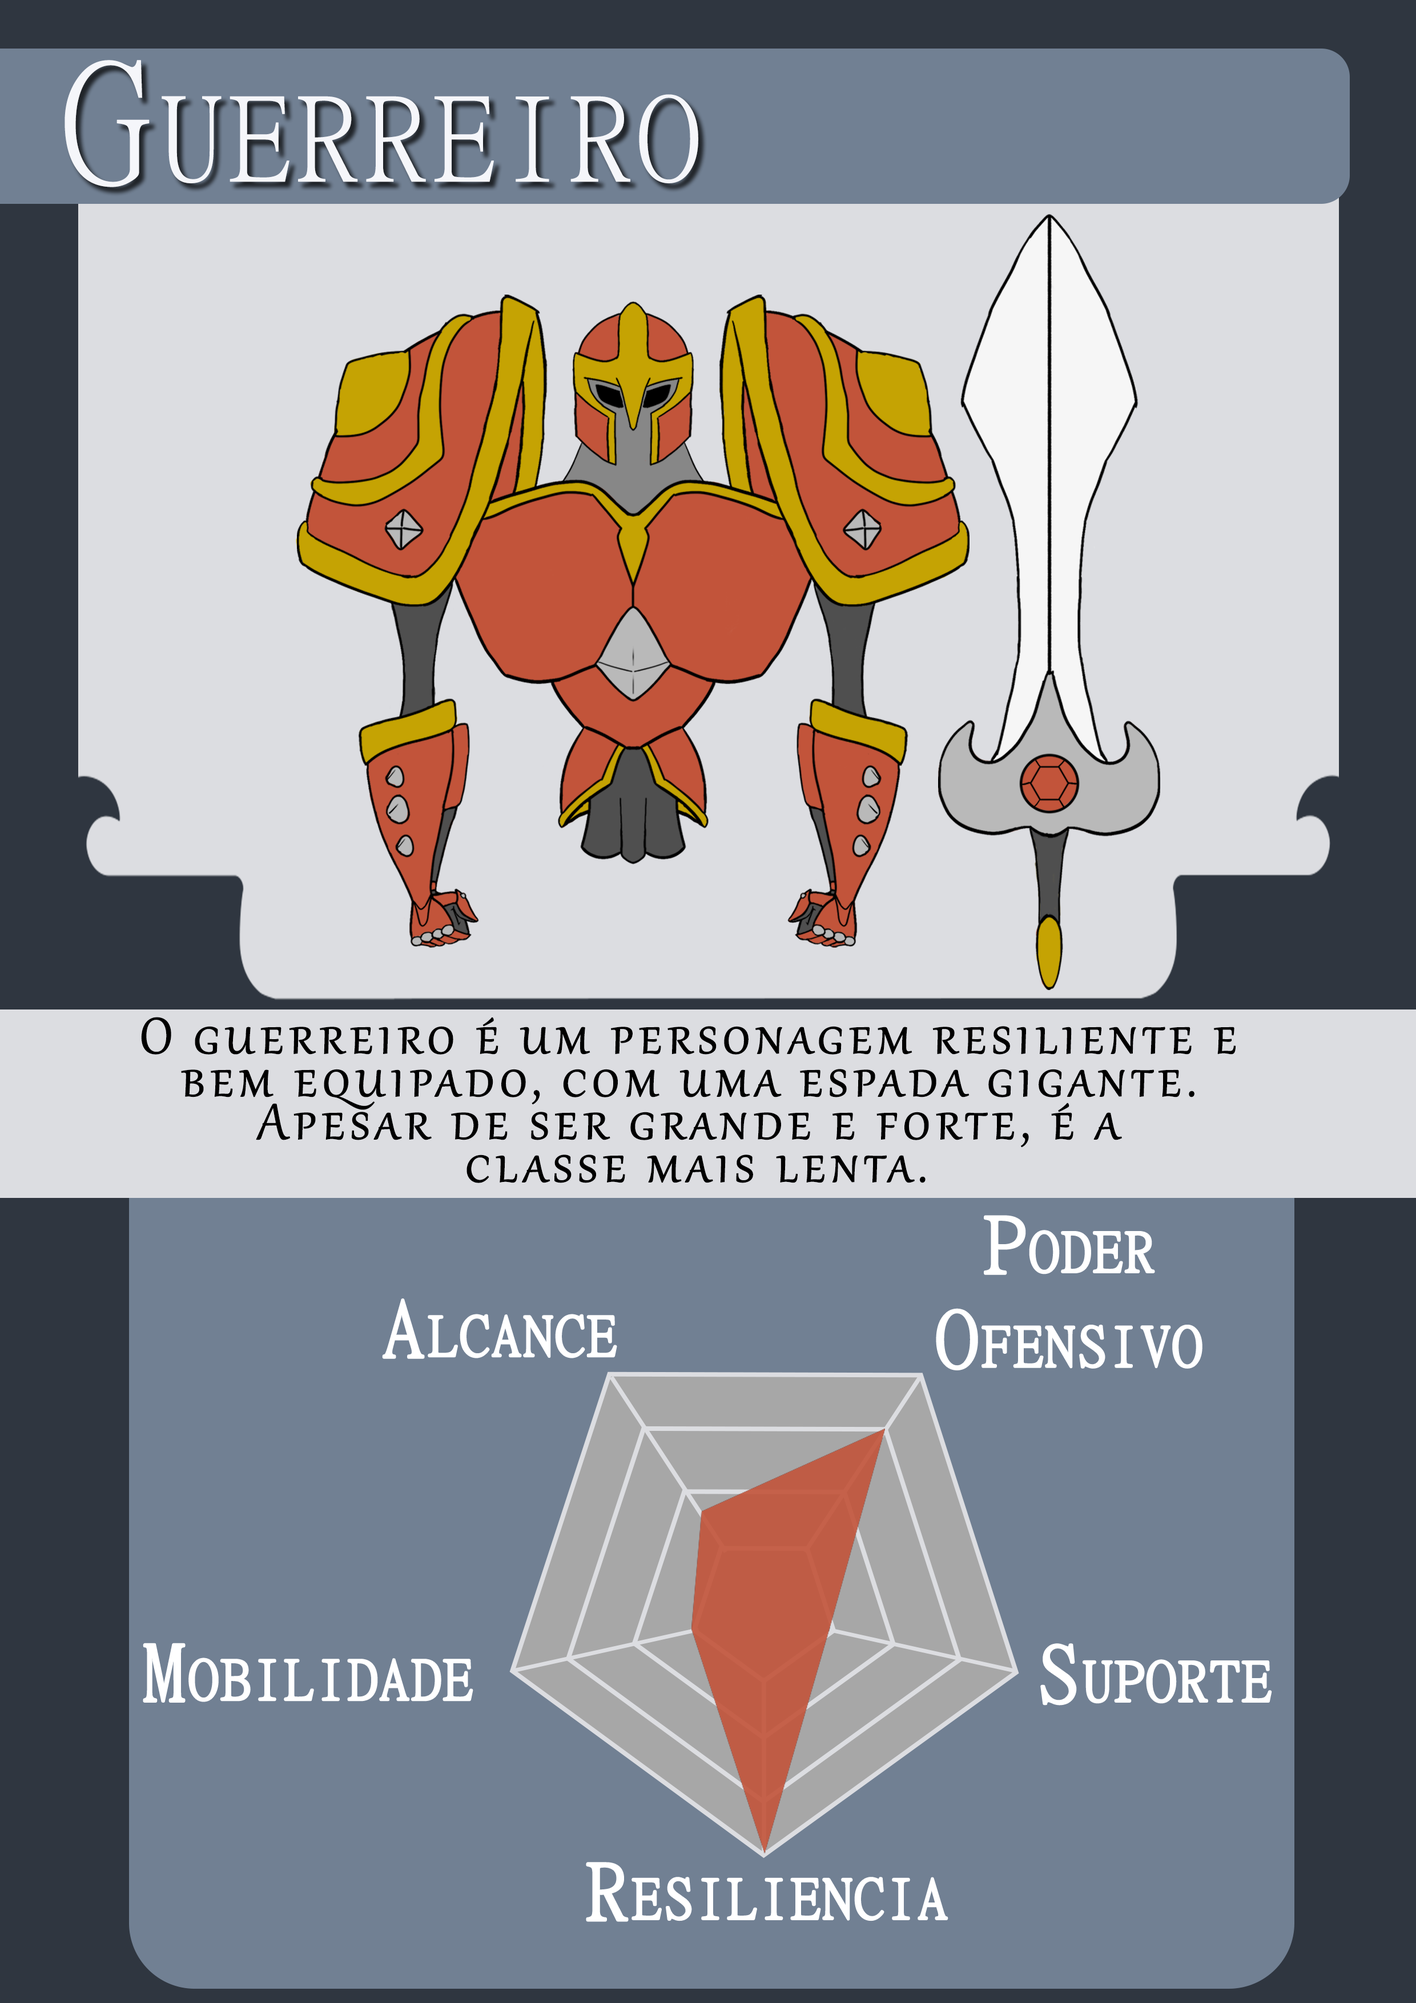
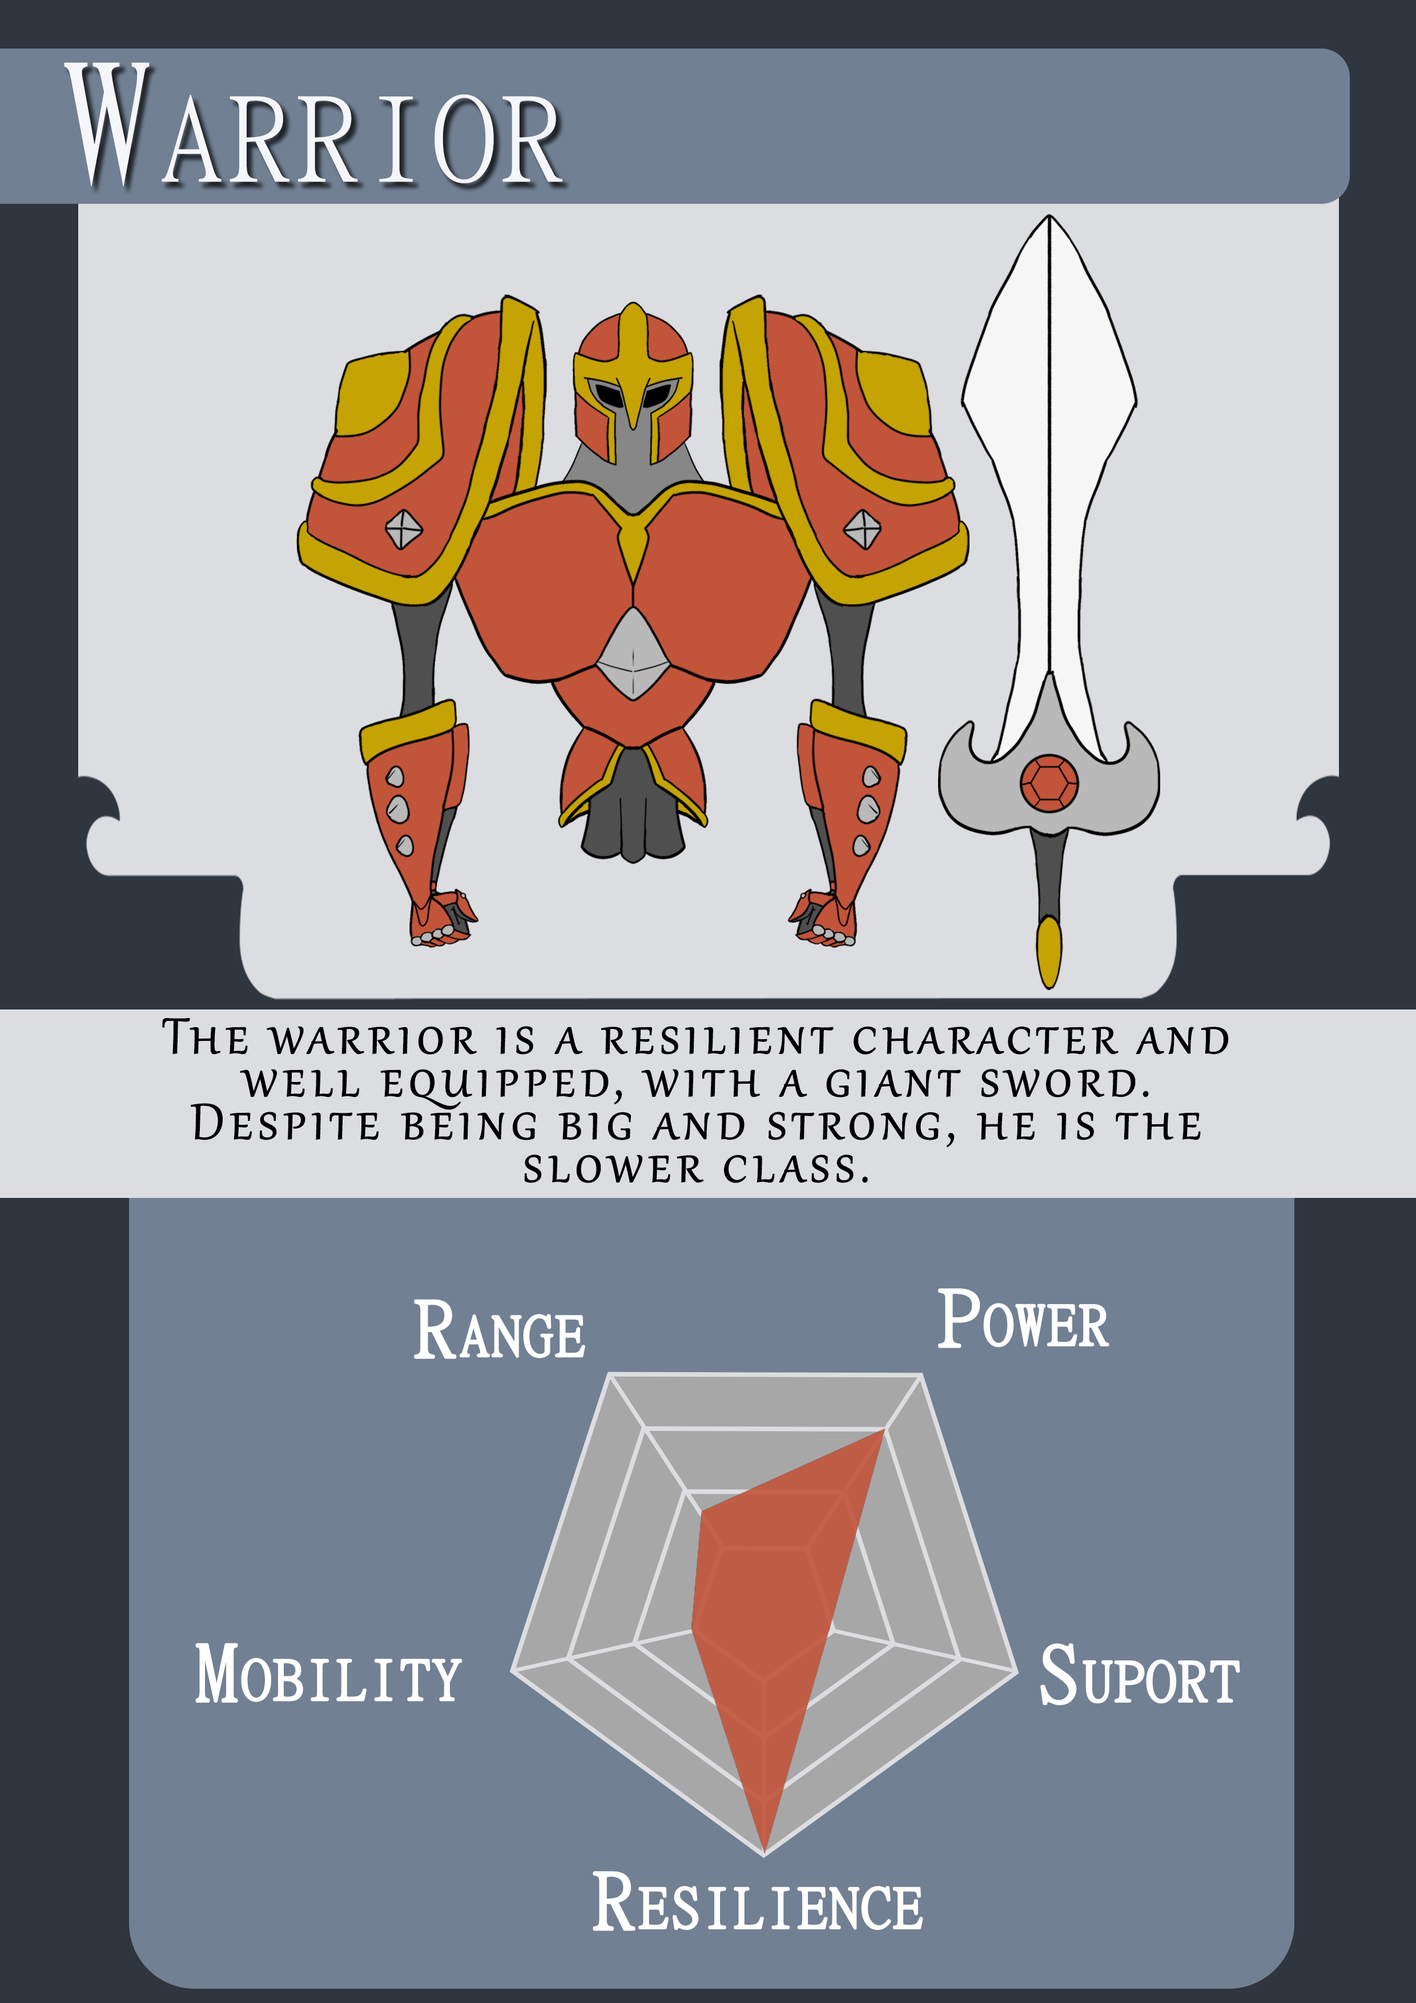
Translated to english

diff --git a/meroth.html b/meroth.html
@@ -26,16 +26,16 @@
             <section class="post opened">
                 <header class="major">
                     <h2>Meroth</h2>
-                    <h3>Jogo Tático de Estratégia em Turnos 3D</h3>
+                    <h3>3D Turn-based Tactic Strategy Game</h3>
                 </header>
 
                 <img class="image custom main" src="images/Meroth_00.jpg" alt="Meroth_00" />
-                <p>
-                    Meroth é um jogo tático de estratégia em turnos com gráficos 3D e jogado por quatro jogadores em dispositivo local. 
-                    O jogo se passa em um mundo de fantasia criado pela árvore mágica chamada Meroth. 
+                <p> 
+                    Meroth is a 3D Turn-based Tactic Strategy Game and played by four players in a local device. The game is placed in a fantasy world created by the
+                    magical elderly tree called Meroth.
                     <br>
-                    Esse projeto foi criado com o propósito de concluir o curso tecnologo de jogos digitais da UNIFACISA. No TCC, os alunos são 
-                    obrigados a criar um jogo sozinhos, incluindo a arte, design e programação, enquanto documenta todo o processo em um GDD(Game Design Document).
+                    This project was made with the purpose of completing the Digital Games' graduation course at UNIFACISA University. In the final project, the students must
+                    develop an entire game by themselves, including doing all the art, designing and coding, while documenting everything in a GDD(Game Design Document).
                 </p>
                 <div class="iframe-container">
                 <iframe width="560" height="315" src="https://www.youtube.com/embed/5tggHAMHCjY" frameborder="0" allow="accelerometer; autoplay; encrypted-media; gyroscope; picture-in-picture" allowfullscreen></iframe>
@@ -47,59 +47,55 @@
 
                 <hr>
                 <h2>Gameplay</h2>
-
                 <p>
-                    Meroth é um jogo tático de estratégia onde o cenário contém uma grid para a navegação de seus personagens, típico de jogos do gênero. Em seu turno, o jogador irá poder selecionar seus personagens e 
-                    realizar as ações desejadas enquanto possuir <b>Manapoints</b>. O objetivo do jogo é atacar os cristais inimigos, encontrados em suas bases, e coletar seus fragmentos. Quem conseguir coletar todos 
-                    os 3 fragmentos dos oponentes primeiro irá vencer a partida.
+                    Meroth is a tactical strategy game with a grid-based platform for the characters navegation, like most of games of the genre.In the player's turn, they can select a character and make all the desired
+                    actions while they still have <b>mana points</b>. The main objective of the game is to defeat the enemies' crystals, located at their bases, and collect the 
+                    fragments. The player who collects the fragments of the three enemies first wins the match.
                 </p>
 
                 <img class="image custom main" src="images/Meroth_Gameplay.png" alt="" />
-
-                
                 <p>
-                    As ações possíveis no jogo são: <b>Movimentar</b>, <b>Atacar</b>, e usar <b>Habilidade/Skill</b>. Cada um dos personagens têm atributos diferentes que irão determinar como essas ações funcionam,
-                    como por exemplo, distância de movimento, distância de ataque, pontos de vida, etc. Cada personagem também possui habilidades únicas, uma <b>ATIVA</b>, onde o jogador determiná aonde será usado e assim 
-                    consumindo Manapoints, e uma <b>PASSIVA</b>, onde irá acontecer automaticamente assim que certas condições sejam encontradas.
+                    The game includes three main actions: <b>Move</b>, <b>Attack</b>, and use <b>Special Skill</b>. Each character has different attributes that impact the effectiveness of these actions, 
+                    such as movement distance, attack range, and HP. Additionally, each character possesses unique skills. There are two skill types available in the game: <b>active skills</b>, which can be used 
+                    by the player at will and cost some mana points, and <b>passive skills</b>, which activate automatically when certain conditions are met.
                 </p>
                 
                 <img class="image custom simple" src="images/Meroth_04.png" alt="" />
                 <br>
                 <p>
-                    A navegação no jogo é extremamente simples, onde o jogador irá utilizar apenas o mouse para fazer as seleções dos personagens e a movimentação de câmera.
+                    The game's navigation is very straightforward, requiring only the use of a mouse for mechanics like character selection and camera movement.
                 </p>
 
                 <img class="image custom simple" src="images/Navegation.png" alt="" />
                 <br>
                 <p>
-                    O <b>Level Design</b> de Meroth é composto por um mapa em grid (35x35), onde seus tiles são divididos em três categorias básicas: <i>Selecionáveis</i>, <i>Não-Selecionáveis</i> e <i>Spawn</i>.
-                    Esse mapa foi feito de forma que o campo de batalha é composto por uma área central com um formato de círculo e outra parte que são as bases localizadas nos quatro extremos, 
-                    conectados através de um caminho estreito. Nessas bases ficam os spawns dos personagens e no centro dela é onde fica a pedra que representa cada jogador. 
+                    The levels in Meroth are designed on a 35x35 grid-based map, where the tiles fall into three categories: Selectable, Non-Selectable, and Spawnable. 
+                    The battlefield is constructed with a circular central area and four bases located at each extreme, joined by narrow paths. Each character spawns at their base, 
+                    with their team's crystal placed in the center.
                 </p>
 
                 <img class="image custom simple" src="images/Cenário_Top_Tiles.png" alt="" />
 
                 <hr>
-                <h2>História do Jogo</h2>
+                <h2>The Lore</h2>
 
                 <img class="image custom simple" src="images/Meroth_01.png" alt="" />
                 <p>
-                    Era uma vez uma árvore anciã chamada Meroth, que tinha dentro de si um coração de cristal mágico muito poderoso. Um certo dia, 
-                    ela decidiu criar um novo mundo, com uma natureza repleta de paisagens exuberantes, cheias de cores e criaturas pacíficas vivendo em harmonia. 
-                    Porém, Meroth subestimou as consequências que viriam junto com sua ação. Sobrecarregado, o coração brilhou intensamente até explodir. 
+                    Once upon a time, there was an ancient tree called Meroth that had a magical crystal heart inside. One day, Meroth decided to create a new world with beautiful landscapes and peaceful
+                     creatures living in harmony. However, Meroth underestimated the consequences that would come with its action. Overwhelmed, the heart shone brightly until it exploded.
                 </p>
                 <img class="image custom simple" src="images/Explosion.png" alt="" />
                 <p>
-                    Seu cristal mágico houvera quebrado em vários pedaços, suas folhas foram queimadas até tornarem-se pó, uma grande parte do seu tronco estraçalhado e arremessado 
-                    em todas as direções, restando-lhe apenas a base e suas firmes raízes.
+                    The magical crystal inside Meroth had shattered into pieces, its leaves were burnt to dust, and a significant portion of its trunk was smashed and thrown in every direction. 
+                    It was left with only its base and strong roots.
                     <br>
-                    Com a magia que lhe restara, Meroth esticou seus extremos até alcançar os estilhaços do cristal mágico caídos ao seu redor. Com isso, ganhou acesso 
-                    a uma fonte de magia enfraquecida, mas suficiente para restaurar parte dos seus poderes.
+                    Meroth used its remaining magic to stretch its limbs and reach the little pieces of stone of the broken magical crystal lying around it. In this way, it was able to access a weakened source of
+                     magic, and it was still potent enough to restore some of its lost powers.
                 </p>
                 <img class="image custom simple" src="images/Meroth_02.png" alt="" />
                 <p>
-                    Agora, as pedras precisam se fortalecer o bastante para fundir-se com a árvore anciã, e, assim, voltar a ser inteira novamente. Para isso, cada uma usará 
-                    sua magia invocando criaturas poderosas rumo ao campo de batalha, com o objetivo de coletar fragmentos de seus oponentes e adquirir cada vez mais energia.
+                    The stones must now increase their strength to the point where they can merge with the ancient tree and become whole again. To achieve this, each stone will utilize its magical
+                     powers to summon powerful creatures to the battleground, with the aim of gathering fragments from their adversaries and gaining greater amounts of energy.
                 </p>
                 <img class="image custom simple" src="images/Meroth_03.png" alt="" />
 
@@ -107,11 +103,11 @@
 
 
                 <hr>
-                <h2>Personagens</h2>
+                <h2>Characters</h2>
 
                 <p>
-                    Os quatro personagens de Meroth foram criados com base em esteriótipos de classes típicas medievais, frequentemente encontrados em jogos de RPG.
-                    Cada um deles possui características e habilidades únicas.
+                    The four characters in Meroth were modeled after the typical medieval class stereotypes often found in RPG games. However, each of them possesses distinctive traits and abilities
+                     that set them apart.
                 </p>
                 <br>
 

diff --git a/index.html b/index.html
@@ -16,7 +16,7 @@
 					<div id="intro">
 						<div class="bg-panel">
 							<h1>Fernanda Oliveira</h1>
-							<h2>Desenvolvedora de Jogos Digitais</h2>
+							<h2>Game Developer</h2>
 						</div>
 						<ul class="actions">
 							<li><a href="#header" class="button icon solid solo fa-arrow-down scrolly">Continue</a></li>
@@ -42,17 +42,19 @@
 						<!-- Featured Post -->
 							<article class="post featured">
 								<header class="major">
-									<h2>Sobre mim</h2>
+									<h2>About me</h2>
 									<br>
 									<img class="image perfil" src="images/Perfil.png" alt:""/>
 									<p>
-										Sou uma desenvolvedora de jogos apaixonada por programação, com quase um ano de experiência no mercado de desenvolvimento de 
-										jogos multiplayer, e possuo graduação em tecnologia em Jogos Digitais pela UNIFACISA. 
-										Video games sempre despertaram meu interesse. Cresci jogando diversos tipos de jogos, especialmente Final Fantasy Tactics,
-										Counter-Strike, Perfect World, Aion Online, entre vários outros. E o que começou apenas como uma curiosidade a respeito de 
-										como esses jogos eram feitos, acabou por trazer à tona minha paixão pela programação, área em que tenho focado meu aprendizado.
-										Poder trabalhar com a criação de jogos é uma experiência incrível e extremamente divertida. Me sinto muito sortuda de poder fazer
-										algo que amo.
+										I'm a game developer who's passionate about programming and has over two years of experience in the mobile 
+										multiplayer gaming industry. I hold a degree in Digital Games Technology from UNIFACISA. 
+										<br>
+										Video games have always piqued my interest, and I grew up playing a wide variety of them, including MMORPGs, 
+										shooter games, strategy games, and more. Initially, I was simply curious about how these games were made, but 
+										my interest soon turned into a deep fascination with building them. 
+										<br>
+										Working on game development is an amazing and thoroughly enjoyable experience, and I feel incredibly fortunate
+										 to be able to do something I'm passionate about.
 									</p>
 								</header>
 								<!-- <a class="image main"><img src="images/coding_.jpg" alt="" /></a> -->
@@ -61,16 +63,15 @@
 							<article class="post featured">
 								<header class="major">
 									<h2>Meroth</h2>
-									<p>Jogo Tático de Estratégia em Turnos 3D</p>
+									<p>3D Turn-based Tactic Strategy Game</p>
 								</header>
 									<a href="https://youtu.be/5tggHAMHCjY" class="image fit" target="_blank"><img src="images/Meroth_00.jpg" alt="" /></a>
 									<p>
-										Meroth é um jogo tático de estratégia que se passa em um mundo de fantasia e jogado por quatro jogadores em dispositivo local. 
-										Esse jogo foi desenvolvido como projeto de TCC do curso de Jogos Digitais da Unifacisa.
+										Meroth is a tactical strategy game, placed in a fantasy world and it's played by four players in a local device. This game was
+										developed as a final project for my Digital Games graduation at UNIFACISA University.
 									</p>
-
 								<ul class="actions special">
-									<li><a href="meroth.html" class="button large">Veja Mais</a></li>
+									<li><a href="meroth.html" class="button large">See more</a></li>
 								</ul>
 							</article>
 							<hr>
@@ -78,11 +79,11 @@
 							<section class="posts">
 								<article>
 									<header>
-										<h2><a href="#">Ball Out</a></h2>
-										<i>Jogo de Plataforma 3D</i>
+										<h2>Ball Out</h2>
+										<i>3D Platform Game</i>
 									</header>
 									<a href="https://www.youtube.com/watch?v=TgQSuGjsZRE&feature=emb_title&ab_channel=RenanMoura" class="image fit" target="_blank"><img src="images/ballout.jpg" alt="" /></a>
-									<p>Ball Out é um jogo que foi criado no evento Ludum Dare 42, com um grupo de amigos em um final de semana.</p>
+									<p>Ball Out is a game that was made with a group of frineds in a weekend for the Ludum Dare 42 event.</p>
 									<ul class="actions special">
 										<li><a href="https://www.youtube.com/watch?v=TgQSuGjsZRE&feature=emb_title&ab_channel=RenanMoura" class="button" target="_blank">Video</a></li>
 										<li><a href="https://fernandasmo.itch.io/ball-out" class="button" target="_blank">itch.io</a></li>
@@ -91,10 +92,10 @@
 								<article>
 									<header>
 										<h2><a href="#">Eye Tribe Testing Project</a></h2>
-										<i> Jogo 3D com um Dispositivo de Eye Tracking </i>
+										<i> 3D Game with Eye Tracking Device</i>
 									</header>
 									<a href="https://www.youtube.com/watch?v=IQdWoVWLeAs&feature=youtu.be" class="image fit" target="_blank"><img src="images/eyetracking.jpg" alt="" /></a>
-									<p>Um pequeno projeto criado pela experiência de desenvolver um jogo usando o dispositivo de rastreamento de olho da the Eye Tribe.</p>
+									<p>This is a small project created for the experience of developing a game with the Eye Tribe's eye tracking device.</p>
 									<ul class="actions special">
 										<li><a href="https://www.youtube.com/watch?v=IQdWoVWLeAs&feature=youtu.be" class="button" target="_blank">Video</a></li>
 										<li><a href="https://github.com/FernandaDev/EyeTribeTestProject" class="button" target="_blank">GitHub</a></li>
@@ -103,14 +104,15 @@
 								<article>
 									<header>
 										<h2><a href="#">AmazePop</a></h2>
-										<i>Jogo de Puzzle e Música 2D</i>
+										<i>2d Puzzle/Music Game</i>
 									</header>
 									<a href="https://www.youtube.com/watch?v=KzWZvmMh3LU&ab_channel=FernandaSMO" class="image fit" target="_blank"><img src="images/amazepop.jpg" alt="" /></a>
-									<p>Amaze Pop é um jogo que mistura o gênero de puzzle com música, onde o jogador tem que fazer duas coisas ao mesmo tempo.
-										 Esse projeto foi desenvolvido ao final do curso Gamer Dev da Gracom.</p>
+									<p>Amaze Pop is a game that mixes the puzzle and music genres together. The player needs to do two things at the same time.
+										 This was my first real project, as well as it was the final project of the Gracon's Game Development course.
+									</p>
 									<ul class="actions special">
 										<li><a href="https://www.youtube.com/watch?v=KzWZvmMh3LU&ab_channel=FernandaSMO" class="button" target="_blank">Video</a></li>
-										<li><a href="https://bit.ly/2th29wr" class="button" target="_blank">Baixar</a></li>
+										<li><a href="https://bit.ly/2th29wr" class="button" target="_blank">Download</a></li>
 									</ul>
 								</article>
 							</section>
